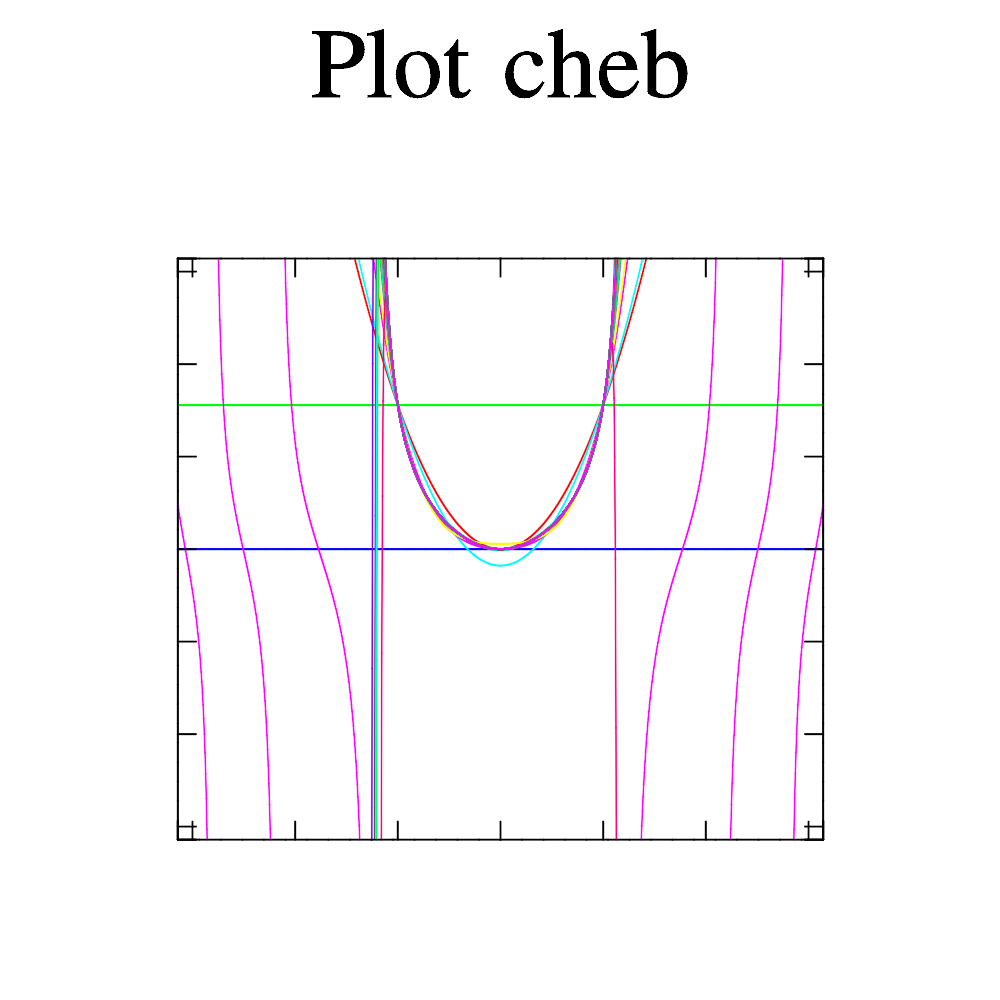
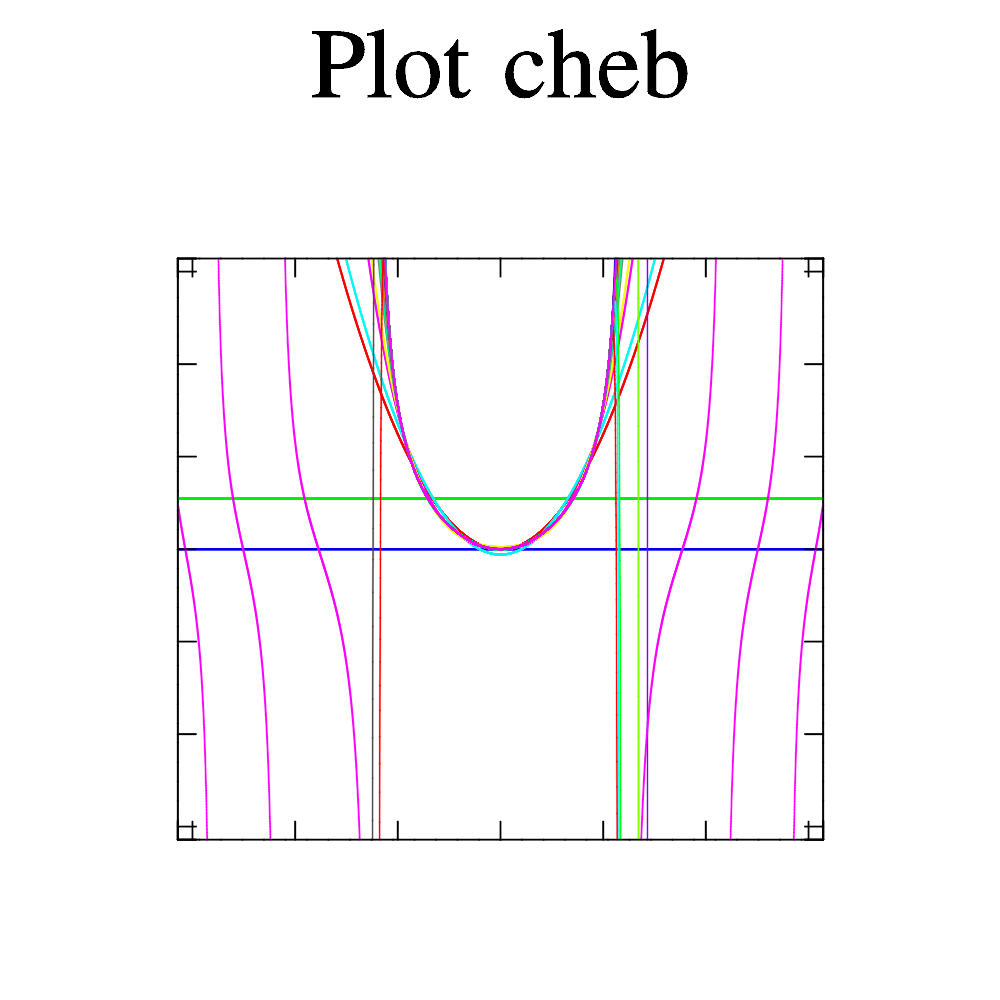
using delete[] where approptiate

diff --git a/cheb.cpp b/cheb.cpp
@@ -2,6 +2,7 @@
 #include <iostream>
 #include <vector>
 #include <cmath>
+#include <memory>
 #include <mgl2/mgl.h>
 
 typedef enum {
@@ -67,7 +68,7 @@ public:
 		{
 			tmp[i] = cheb.zeros[i];
 		}
-		delete zeros;
+		delete[] zeros;
 		zeros = tmp;
 
 		return *this;
@@ -83,7 +84,7 @@ public:
 	}
 	~Cheb()
 	{
-		delete zeros;
+		delete[] zeros;
 	}
 private:
 	std::size_t order = 0;
@@ -259,7 +260,7 @@ public:
 		{
 			tmp[i] = poly.coefficients[i];
 		}
-		delete coefficients;
+		delete[] coefficients;
 		coefficients = tmp;
 
 		return *this;
@@ -276,7 +277,7 @@ public:
 	}
 	~Poly()
 	{
-		delete coefficients;
+		delete[] coefficients;
 	}
 private:
 	static std::vector<P> polys;
@@ -316,7 +317,7 @@ private:
 
 		gaussianElim(A, coefficients, order + 1);
 
-		delete A; A = NULL;
+		delete[] A; A = NULL;
 	}
 };
 template<class P>
@@ -416,9 +417,9 @@ double f(double x)
 
 int main (int argc, char ** argv) {
 
-	mglGraph * gr = new mglGraph(0, 1000, 1000);
+	mglGraph gr(0, 1000, 1000);
 
-	const std::size_t n = 1001;
+	const std::size_t n = 10001;
 
 	const std::size_t maxorder = 45;
 
@@ -433,17 +434,17 @@ int main (int argc, char ** argv) {
 
 	mglData x;
 	mglData y;
-	mgls_prepare1d<Cheb, PointChooser::circle_even>
+
+	mgls_prepare1d<Cheb, PointChooser::circle_cheb>
 		(&x, &y, f, n, maxorder, viewlbound, viewrbound, interplbound, interprbound);
-	gr->SetRanges(viewlbound, viewrbound, viewlowbound, viewuprbound);
-	gr->SetOrigin((viewlbound + viewrbound) / 2.0 , 0, 0);
-	gr->Title("Plot cheb");
-	gr->Box();
-	gr->Plot(x, y);
 
-    gr->WriteFrame("sample.png");
+	gr.SetRanges(viewlbound, viewrbound, viewlowbound, viewuprbound);
+	gr.SetOrigin((viewlbound + viewrbound) / 2.0 , 0, 0);
+	gr.Title("Plot cheb");
+	gr.Box();
+	gr.Plot(x, y);
 
-    delete gr;
+    gr.WriteFrame("sample.png");
 
 	return 0;
 }
